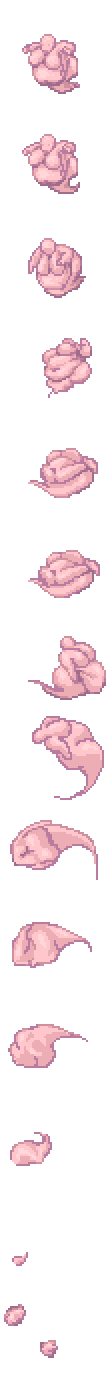
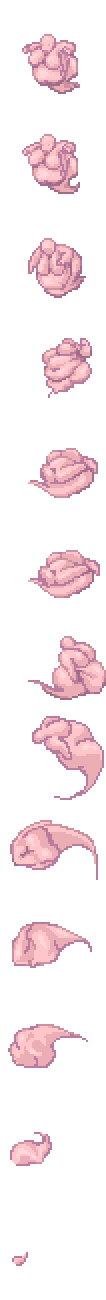
Small fix

Changed region(s): [[0.0849, 0.0, 1.0, 0.8308], [0.0283, 0.8615, 0.4811, 0.9846], [0.3679, 0.9538, 0.5377, 0.9846]]

diff --git a/Content/NPCs/Caverns/SugarSpecter.cs b/Content/NPCs/Caverns/SugarSpecter.cs
@@ -9,7 +9,7 @@ namespace WgMod.Content.NPCs.Caverns;
 [Credit(ProjectRole.Artist, Contributor.igobee_)]
 public class SugarSpecter : SweetSpirit
 {
-    public override int FrameCount => 14;
+    public override int FrameCount => 13;
     public override int IdleFrames => 2;
     public override int WanderTime => 12 * 60;
     public override float WeightGain => 1f;
@@ -22,6 +22,7 @@ public class SugarSpecter : SweetSpirit
         NPC.damage = 40;
         NPC.defense = 18;
         NPC.lifeMax = 150;
+        NPC.value = 100f;
     }
 
     public override float SpawnChance(NPCSpawnInfo spawnInfo)
